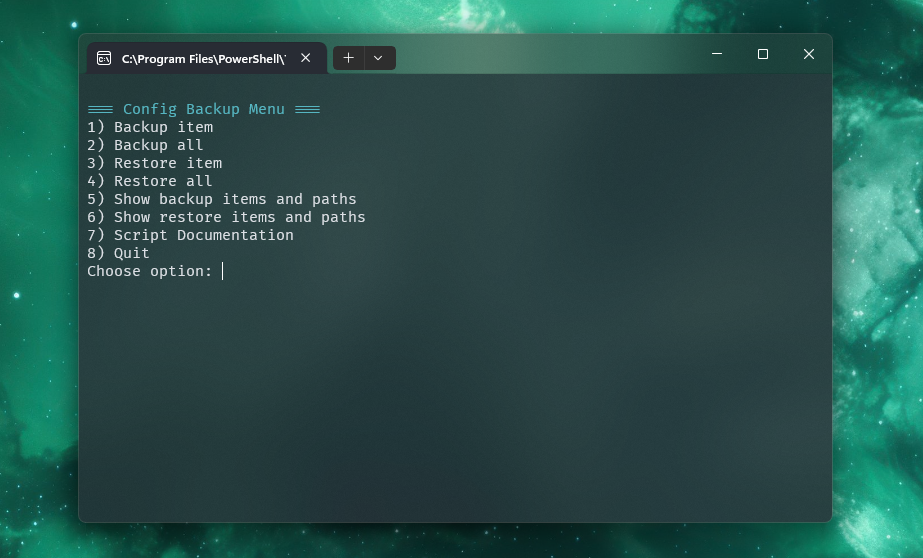
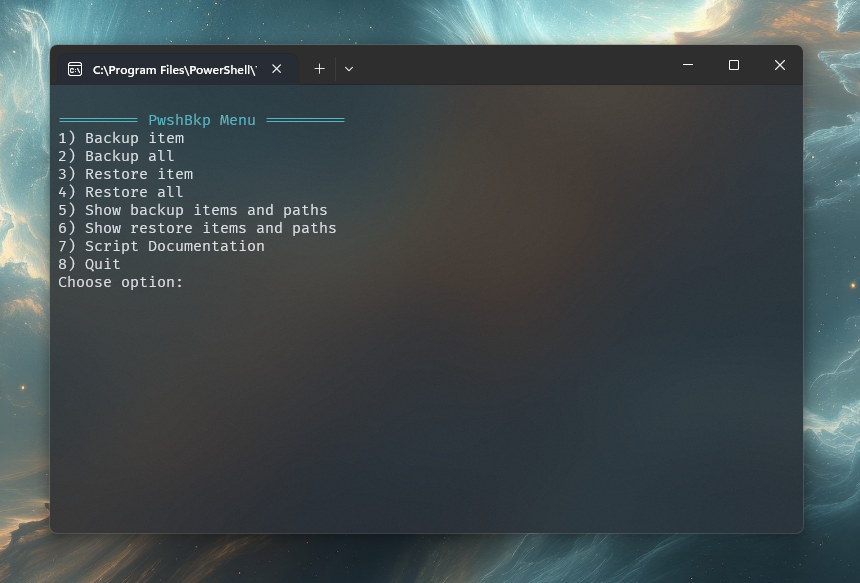
Refactor menu formatting and enhance README configuration instructions

diff --git a/README.md b/README.md
@@ -18,6 +18,32 @@ A PowerShell backup script to quickly copy files and directories to a given loca
 
 ---
 
+## ⚙ Configure
+
+Before running the script, adjust the included paths to match your environment.
+
+- All paths to be backed up are defined in the `$IncludePaths` variable.  
+- Each entry uses a **logical name** (key) mapped to its **actual filesystem path** (value).  
+- You can add, remove, or modify entries as needed.  
+- Restore operations are **non-destructive**: files are copied with `robocopy`, preserving timestamps and attributes, but nothing is deleted.
+
+Example configuration in PwshBkp.ps1 (customize for your needs):
+
+```powershell
+# Included paths (Key = logical name -> Value = path)
+$IncludePaths = [ordered]@{
+    "PowerShell"      = Join-Path $env:USERPROFILE "Documents\PowerShell"
+    "WindowsTerminal" = Join-Path $env:LOCALAPPDATA "Packages\Microsoft.WindowsTerminal_8wekyb3d8bbwe\LocalState"
+    "Everything"      = Join-Path $env:APPDATA      "Everything"
+    "Calibre"         = Join-Path $env:APPDATA      "calibre"
+    "Links"           = Join-Path $env:USERPROFILE  "Links"
+    "SSH"             = Join-Path $env:USERPROFILE  ".ssh"
+    "ObsidianConfig"  = "D:\Home\Files\Obsidian\Nxor-Remote\.obsidian"
+    "Scripts"         = "D:\Home\Files\Scripts"
+}
+```
+---
+
 ## 📥 Backup
 
 - **Backup item** – choose one logical item to copy into today's backup folder.
@@ -37,13 +63,6 @@ A PowerShell backup script to quickly copy files and directories to a given loca
 - **Restore item** – choose one user-dir item to restore.
 - **Restore all** – restores all user-dir items.
 - **Note:** You must unzip if you only have a `.zip`; restore works on folders.
-
----
-
-## ⚙ Safe to Edit
-
-- Edit `$IncludePaths` to add or remove items.
-- Restore never deletes files; it copies over using `robocopy`, preserving timestamps and attributes.
 
 ---
 
